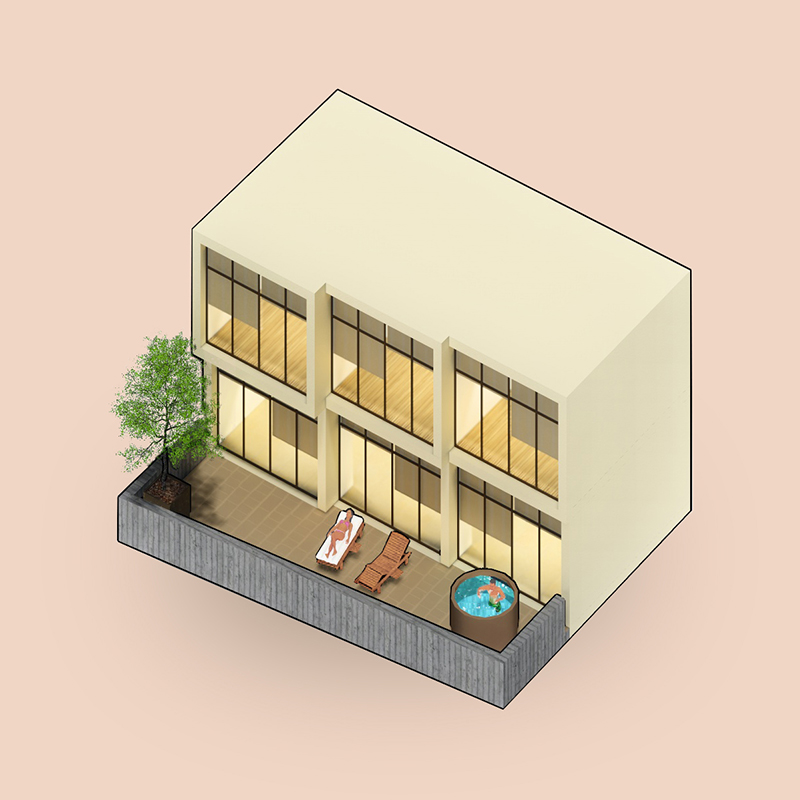
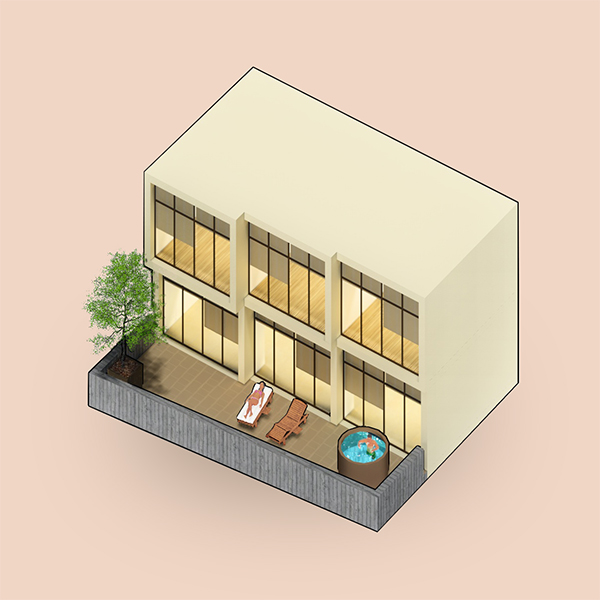
1
1

diff --git a/departamentos.html b/departamentos.html
@@ -265,7 +265,7 @@ data-load="false"></DIV></A><!-- Products: Quick View -->
 
 <DIV class="&#10;          summary-item&#10;          summary-item-record-type-text&#10;          sqs-gallery-design-autogrid-slide&#10;          &#10;           summary-item-has-thumbnail&#10;           summary-item-has-excerpt&#10;          &#10;          summary-item-has-tags&#10;          summary-item-has-author&#10;          &#10;          "><!-- Thumbnail --> 
 <DIV class="summary-thumbnail-outer-container"><A class="summary-thumbnail-container sqs-gallery-image-container" 
-href="./depto1">
+href="./depto2">
 <DIV class="summary-thumbnail img-wrapper"><!-- Main Image -->         <IMG 
 class="summary-thumbnail-image"
 data-src="./imgs/IsoDepto2.jpg" 
@@ -280,7 +280,7 @@ data-load="false"></DIV></A><!-- Products: Quick View -->
 
 <DIV class="&#10;          summary-item&#10;          summary-item-record-type-text&#10;          sqs-gallery-design-autogrid-slide&#10;          &#10;           summary-item-has-thumbnail&#10;           summary-item-has-excerpt&#10;          &#10;          summary-item-has-tags&#10;          summary-item-has-author&#10;          &#10;          "><!-- Thumbnail --> 
 <DIV class="summary-thumbnail-outer-container"><A class="summary-thumbnail-container sqs-gallery-image-container" 
-href="./depto1">
+href="./depto3">
 <DIV class="summary-thumbnail img-wrapper"><!-- Main Image -->         <IMG 
 class="summary-thumbnail-image"
 data-src="./imgs/IsoDepto3.jpg" 
@@ -295,7 +295,7 @@ data-load="false"></DIV></A><!-- Products: Quick View -->
 
 <DIV class="&#10;          summary-item&#10;          summary-item-record-type-text&#10;          sqs-gallery-design-autogrid-slide&#10;          &#10;           summary-item-has-thumbnail&#10;           summary-item-has-excerpt&#10;          &#10;          summary-item-has-tags&#10;          summary-item-has-author&#10;          &#10;          "><!-- Thumbnail --> 
 <DIV class="summary-thumbnail-outer-container"><A class="summary-thumbnail-container sqs-gallery-image-container" 
-href="./depto1">
+href="./depto4">
 <DIV class="summary-thumbnail img-wrapper"><!-- Main Image -->         <IMG 
 class="summary-thumbnail-image"
 data-src="./imgs/IsoDepto4.jpg" 
@@ -310,7 +310,7 @@ data-load="false"></DIV></A><!-- Products: Quick View -->
 
 <DIV class="&#10;          summary-item&#10;          summary-item-record-type-text&#10;          sqs-gallery-design-autogrid-slide&#10;          &#10;           summary-item-has-thumbnail&#10;           summary-item-has-excerpt&#10;          &#10;          summary-item-has-tags&#10;          summary-item-has-author&#10;          &#10;          "><!-- Thumbnail --> 
 <DIV class="summary-thumbnail-outer-container"><A class="summary-thumbnail-container sqs-gallery-image-container" 
-href="./depto1">
+href="./depto5">
 <DIV class="summary-thumbnail img-wrapper"><!-- Main Image -->         <IMG 
 class="summary-thumbnail-image"
 data-src="./imgs/IsoDepto5.jpg" 
@@ -325,7 +325,7 @@ data-load="false"></DIV></A><!-- Products: Quick View -->
 
 <DIV class="&#10;          summary-item&#10;          summary-item-record-type-text&#10;          sqs-gallery-design-autogrid-slide&#10;          &#10;           summary-item-has-thumbnail&#10;           summary-item-has-excerpt&#10;          &#10;          summary-item-has-tags&#10;          summary-item-has-author&#10;          &#10;          "><!-- Thumbnail --> 
 <DIV class="summary-thumbnail-outer-container"><A class="summary-thumbnail-container sqs-gallery-image-container" 
-href="./depto1">
+href="./depto6">
 <DIV class="summary-thumbnail img-wrapper"><!-- Main Image -->         <IMG 
 class="summary-thumbnail-image"
 data-src="./imgs/IsoDepto6.jpg" 
@@ -340,7 +340,7 @@ data-load="false"></DIV></A><!-- Products: Quick View -->
 
 <DIV class="&#10;          summary-item&#10;          summary-item-record-type-text&#10;          sqs-gallery-design-autogrid-slide&#10;          &#10;           summary-item-has-thumbnail&#10;           summary-item-has-excerpt&#10;          &#10;          summary-item-has-tags&#10;          summary-item-has-author&#10;          &#10;          "><!-- Thumbnail --> 
 <DIV class="summary-thumbnail-outer-container"><A class="summary-thumbnail-container sqs-gallery-image-container" 
-href="./depto1">
+href="./depto7">
 <DIV class="summary-thumbnail img-wrapper"><!-- Main Image -->         <IMG 
 class="summary-thumbnail-image"
 data-src="./imgs/IsoDepto7.jpg" 
@@ -355,7 +355,7 @@ data-load="false"></DIV></A><!-- Products: Quick View -->
 
 <DIV class="&#10;          summary-item&#10;          summary-item-record-type-text&#10;          sqs-gallery-design-autogrid-slide&#10;          &#10;           summary-item-has-thumbnail&#10;           summary-item-has-excerpt&#10;          &#10;          summary-item-has-tags&#10;          summary-item-has-author&#10;          &#10;          "><!-- Thumbnail --> 
 <DIV class="summary-thumbnail-outer-container"><A class="summary-thumbnail-container sqs-gallery-image-container" 
-href="./depto1">
+href="./depto8">
 <DIV class="summary-thumbnail img-wrapper"><!-- Main Image -->         <IMG 
 class="summary-thumbnail-image"
 data-src="./imgs/IsoDepto8.jpg" 
@@ -370,7 +370,7 @@ data-load="false"></DIV></A><!-- Products: Quick View -->
 
 <DIV class="&#10;          summary-item&#10;          summary-item-record-type-text&#10;          sqs-gallery-design-autogrid-slide&#10;          &#10;           summary-item-has-thumbnail&#10;           summary-item-has-excerpt&#10;          &#10;          summary-item-has-tags&#10;          summary-item-has-author&#10;          &#10;          "><!-- Thumbnail --> 
 <DIV class="summary-thumbnail-outer-container"><A class="summary-thumbnail-container sqs-gallery-image-container" 
-href="./depto1">
+href="./depto9">
 <DIV class="summary-thumbnail img-wrapper"><!-- Main Image -->         <IMG 
 class="summary-thumbnail-image"
 data-src="./imgs/IsoDepto9.jpg" 
@@ -385,7 +385,7 @@ data-load="false"></DIV></A><!-- Products: Quick View -->
 
 <DIV class="&#10;          summary-item&#10;          summary-item-record-type-text&#10;          sqs-gallery-design-autogrid-slide&#10;          &#10;           summary-item-has-thumbnail&#10;           summary-item-has-excerpt&#10;          &#10;          summary-item-has-tags&#10;          summary-item-has-author&#10;          &#10;          "><!-- Thumbnail --> 
 <DIV class="summary-thumbnail-outer-container"><A class="summary-thumbnail-container sqs-gallery-image-container" 
-href="./depto1">
+href="./depto10">
 <DIV class="summary-thumbnail img-wrapper"><!-- Main Image -->         <IMG 
 class="summary-thumbnail-image"
 data-src="./imgs/IsoDepto10.jpg" 

diff --git a/depto2.html b/depto2.html
@@ -1,4 +1,4 @@
-<!DOCTYPE HTML>
+<!DOCTYPE HTML>
 
 <!DOCTYPE html PUBLIC "" ""><HTML class="touch-styles" lang="en-US" itemtype="http://schema.org/WebPage" 
 itemscope="" xmlns:website="http://ogp.me/ns/website" xmlns:fb="http://www.facebook.com/2008/fbml" 
@@ -7,7 +7,7 @@ http-equiv="X-UA-Compatible">
      
 <META http-equiv="X-UA-Compatible" content="IE=edge,chrome=1">         
 <META name="viewport" content="width=device-width, initial-scale=1">        
-<META charset="utf-8"> <TITLE>COLMENA | Departamento UNO</TITLE> <LINK 
+<META charset="utf-8"> <TITLE>COLMENA | Departamento DOS</TITLE> <LINK 
 href="./favicon.ico" 
 rel="shortcut icon" type="image/x-icon"> <LINK href="https://vivecolmena.com/" 
 rel="canonical"> 
@@ -88,8 +88,8 @@ window.onload = function()
 <SCRIPT type="text/javascript">
 var START_DATE = new Date("April 29, 2019 10:35:00"); // put in the starting date here
 var INTERVAL = 1814400; // in seconds (21 dias)
-var INCREMENT = 0.021845; // increase per tick
-var START_VALUE = 5.35; // initial value when it's the start date
+var INCREMENT = 0.017558; // increase per tick
+var START_VALUE = 4.30; // initial value when it's the start date
 var count = 0;
 
 
@@ -264,8 +264,8 @@ data-updated-on="1554479187005" data-layout-label="Footer Content">
 data-block-type="23">
 <DIV class="sqs-block-content">
 <DIV align="center"><SMALL style="color:rgb(178,122,85);">
-  <A class="links" style="color:rgb(231,150,129);" href="./depto1">UNO</A>
- | <A class="links" href="./depto2">DOS</A>
+  <A class="links" href="./depto1">UNO</A>
+ | <A class="links" style="color:rgb(231,150,129);" href="./depto2">DOS</A>
   | <A class="links" href="./depto3">TRES</A>
    | <A class="links" href="./depto4">CUATRO</A>
     | <A class="links" href="./depto5">CINCO</A>
@@ -294,10 +294,10 @@ data-block-type="2">
 
 <p class="text-align-center" style="color:rgb(231,150,129);">
     <span style="font-size:26px;"">DEPARTAMENTO</span>
-    <span style="font-size:55px; font-weight: 600;">  UNO</span></p>
+    <span style="font-size:55px; font-weight: 600;">  DOS</span></p>
 <p class="text-align-center">
-    <span style="color:rgb(152,135,119); font-size:26px;">149m² </span>
-    <span style="color:rgb(158,189,130); font-size:26px;">+ 47m² DE TERRAZA</span></p>
+    <span style="color:rgb(152,135,119); font-size:26px;">117m² </span>
+    <span style="color:rgb(158,189,130); font-size:26px;">+ 33m² DE TERRAZA</span></p>
 
   
 
@@ -374,17 +374,17 @@ data-block-type="8" data-block-json='{"hSize":null,"floatDir":null,"show-meta-on
 <DIV class="slide" data-type="image">
 <DIV class="margin-wrapper"><A 
 class="image-slide-anchor content-fit">
-<IMG class="thumb-image" data-src="./imgs/uDepto1.jpg" 
+<IMG class="thumb-image" data-src="./imgs/uDepto2.jpg" 
 data-type="image" data-load="false"
-data-image="./imgs/uDepto1.jpg"> 
+data-image="./imgs/uDepto2.jpg"> 
                 </A>
 <DIV class="image-slide-title" style="color:rgb(204,188,173);">Ubicación</DIV></DIV></DIV>
 <DIV class="slide" data-type="image">
 <DIV class="margin-wrapper"><A 
 class="image-slide-anchor content-fit">
-<IMG class="thumb-image" data-src="./imgs/IsoDepto1_.jpg" 
+<IMG class="thumb-image" data-src="./imgs/IsoDepto2_.jpg" 
 data-type="image" data-load="false"
-data-image="./imgs/IsoDepto1_.jpg"> 
+data-image="./imgs/IsoDepto2_.jpg"> 
                 </A>
 <DIV class="image-slide-title" style="color:rgb(204,188,173);">3D</DIV></DIV></DIV></DIV></DIV>
 <STYLE id="design-grid-css" type="text/css">
@@ -395,7 +395,7 @@ data-image="./imgs/IsoDepto1_.jpg">
 
 
 <P style="text-align: center; white-space: pre-wrap;" data-rte-preserve-empty="true"></P>
-<P style="text-align: center; white-space: pre-wrap; color:rgb(38,30,90); font-size:15px; width:70%; margin-left:15%;">El departamento<EM><b><big> UNO  </big></b></EM>tiene vistas hacia copas de árboles y cuenta con una terraza-jardín privada como extensión a sus amplias áreas sociales: Ideal para vigilar a tus niños o mascotas mientras juegan. En la planta alta tiene 3 recámaras (o personalízalo y convierte una recámara en tu cuarto de TV, gimnasio o taller).</P>
+<P style="text-align: center; white-space: pre-wrap; color:rgb(38,30,90); font-size:15px; width:70%; margin-left:15%;">El departamento<EM><b><big> DOS  </big></b></EM>tiene vistas al Cerro del Obispado y al Mirador Asta Bandera. Cuenta con una terraza-jardín privada como extensión a sus áreas sociales: Ideal para vigilar a tus niños o mascotas mientras juegan. En la planta alta tiene 2 recámaras (o personalízalo y convierte una recámara en tu cuarto de TV, gimnasio o taller).</P>
 
 
 
@@ -457,9 +457,9 @@ data-block-type="8" data-block-json='{"existingGallery":null,"hSize":null,"float
 <DIV class="sqs-gallery">
 <DIV class="image-wrapper" id="59400dcc59cc6882f3638d0f" 
 data-type="image"><IMG class="thumb-image" 
-data-src="./imgs/scaled_Depto1social.jpg" 
+data-src="./imgs/scaled_Depto2social.jpg" 
 data-type="image"
-data-image="./imgs/scaled_Depto1social.jpg" 
+data-image="./imgs/scaled_Depto2social.jpg" 
  data-load="false">                      
  </DIV>
 </DIV></DIV></DIV></DIV>
@@ -474,6 +474,7 @@ data-block-type="2">
 + Cocina con isla / desayunador<br>
 + Terraza con preparación para jacuzzi<br>
 + Centro de lavado con tallador<br>
++ Closet de blancos<br>
 + ½ Baño de visitas<br>
 + Escalera: sube hacia área privada</p>
 </DIV></DIV>
@@ -529,9 +530,9 @@ data-block-type="8" data-block-json='{"existingGallery":null,"hSize":null,"float
 <DIV class="sqs-gallery">
 <DIV class="image-wrapper" id="59400dcc59cc6882f3638d0f" 
 data-type="image"><IMG class="thumb-image" 
-data-src="./imgs/scaled_Depto1priv.jpg" 
+data-src="./imgs/scaled_Depto2priv.jpg" 
 data-type="image"
-data-image="./imgs/scaled_Depto1priv.jpg" 
+data-image="./imgs/scaled_Depto2priv.jpg" 
  data-load="false">                      
  </DIV>
 </DIV></DIV></DIV></DIV>
@@ -541,7 +542,7 @@ data-block-type="2">
 <DIV class="sqs-block-content" style="text-align:center;">
 <p style="text-align: left; color:rgb(38,30,90); font-size:17px; line-height:25px; display:inline-block;">
 + Recámara principal con baño completo<br>
-+ 2 recámaras secundarias con baño completo compartido<br>
++ Recámara secundaria con baño completo<br>
 + Closet de blancos<br>
 + Escalera: baja hacia área social</p>
 </DIV></DIV>
